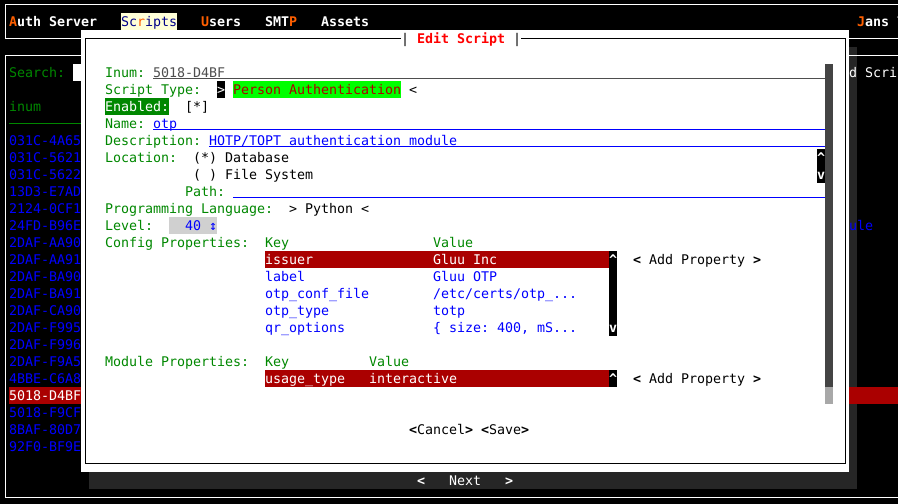
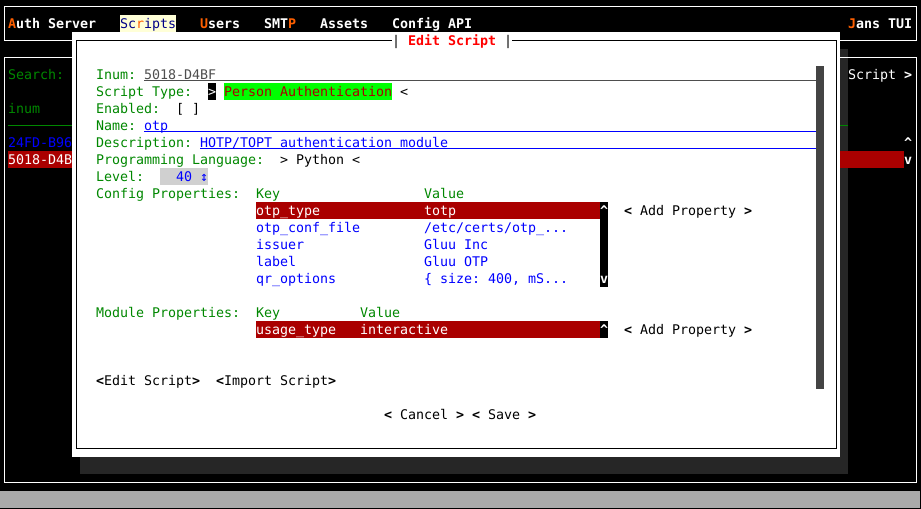
fix(jans-cli-tui): support only db location for custom scripts (#12987)

diff --git a/jans-cli-tui/cli_tui/plugins/060_scripts/edit_script_dialog.py b/jans-cli-tui/cli_tui/plugins/060_scripts/edit_script_dialog.py
@@ -14,7 +14,7 @@ from prompt_toolkit.widgets import Button, Label, TextArea, RadioList,\
     Button, Dialog, Frame
 
 from utils.multi_lang import _
-from utils.static import DialogResult
+from utils.static import DialogResult, cli_style
 from utils.utils import DialogUtils, common_data
 from wui_components.jans_dialog_with_nav import JansDialogWithNav
 from wui_components.jans_cli_dialog import JansGDialog
@@ -81,27 +81,23 @@ class EditScriptDialog(JansGDialog, DialogUtils):
                             prop['value2'] = val_
                         data[prop_container.jans_name].append(prop)
 
-        data['locationType'] = data.get('locationType')
         data['internal'] = self.data.get('internal', False)
         data['modified'] = self.data.get('modified', False)
         data['revision'] = self.data.get('revision', 0) + 1
         data['script'] = self.script
 
-        if data['locationType'] != 'file':
-            data['locationType'] = 'db'
-
         if not 'moduleProperties' in data:
             data['moduleProperties'] = []
 
-        for prop in data['moduleProperties'][:]:
-            if prop['value1'] in ('location_type', 'location_path'):
-                data['moduleProperties'].remove(prop)
+        if 'locationType' not in data:
+            data['locationType'] = 'db'
 
-        location_type = data.pop('locationType')
-        data['moduleProperties'].append({'value1': 'location_type', 'value2': location_type})
-
-        if location_type == 'file':
-            data['moduleProperties'].append({'value1': 'location_path', 'value2': data.pop('locationPath')})
+        for mod_prop in data['moduleProperties']:
+            if mod_prop.get('value1') == 'location_type':
+                mod_prop['value2'] = 'db'
+                break
+        else:
+            data['moduleProperties'].append({'value1': 'location_type', 'value2': 'db'})
 
         if self.data.get('baseDn'):
             data['baseDn'] = self.data['baseDn']
@@ -129,24 +125,6 @@ class EditScriptDialog(JansGDialog, DialogUtils):
             script_types.append((scr_type, scr_name))
         script_types.sort()
 
-
-        file_name = ''
-        if self.data.get('locationType') == 'file':
-            for prop in self.data['moduleProperties'][:]:
-                if prop['value1'] == 'location_path':
-                    location_path = prop.get('value2', '')
-                    file_name = os.path.basename(location_path)
-
-        self.location_widget = self.myparent.getTitledText(
-            _("          File Name"), 
-            name='locationPath', 
-            value=file_name,
-            style='class:script-titledtext', 
-            jans_help="locationPath"
-            )
-
-        self.set_location_widget_state(self.data.get('locationType') == 'file')
-
         config_properties_title = _("Config Properties: ")
         add_property_title = _("Add Property")
         module_properties_title = _("Module Properties: ")
@@ -168,8 +146,8 @@ class EditScriptDialog(JansGDialog, DialogUtils):
                 on_display=self.myparent.data_display_dialog,
                 get_help=(self.get_help,'Properties'),
                 selectes=0,
-                headerColor='class:outh-client-navbar-headcolor',
-                entriesColor='class:outh-client-navbar-entriescolor',
+                headerColor=cli_style.navbar_headcolor,
+                entriesColor=cli_style.navbar_entriescolor,
                 all_data=config_properties_data,
                 underline_headings=False,
                 max_width=44,
@@ -196,8 +174,8 @@ class EditScriptDialog(JansGDialog, DialogUtils):
                 on_display=self.myparent.data_display_dialog,
                 get_help=(self.get_help,'Properties'),
                 selectes=0,
-                headerColor='class:outh-client-navbar-headcolor',
-                entriesColor='class:outh-client-navbar-entriescolor',
+                headerColor=cli_style.navbar_headcolor,
+                entriesColor=cli_style.navbar_entriescolor,
                 all_data=module_properties_data,
                 underline_headings=False,
                 max_width=44,
@@ -214,7 +192,7 @@ class EditScriptDialog(JansGDialog, DialogUtils):
         import_script_button.window.jans_help="Enter to import script for local file"
 
         self.edit_dialog_content = [
-                    self.myparent.getTitledText(_("Inum"), name='inum', value=self.data.get('inum',''), style='class:script-titledtext', jans_help=self.myparent.get_help_from_schema(schema, 'inum'), read_only=True),
+                    self.myparent.getTitledText(_("Inum"), name='inum', value=self.data.get('inum',''), style=cli_style.titled_text, jans_help=self.myparent.get_help_from_schema(schema, 'inum'), read_only=True),
                     self.myparent.getTitledWidget(
                                 _("Script Type"),
                                 name='scriptType',
@@ -223,24 +201,11 @@ class EditScriptDialog(JansGDialog, DialogUtils):
                                     value=self.data.get('scriptType', '')
                                     ),
                                 jans_help=self.myparent.get_help_from_schema(schema, 'scriptType'),
-                                style='class:outh-client-dropdown'),
+                                style=cli_style.drop_down),
 
-                    self.myparent.getTitledCheckBox(_("Enabled"), name='enabled', checked=self.data.get('enabled'), style='class:script-checkbox', jans_help=self.myparent.get_help_from_schema(schema, 'enabled')),
-                    self.myparent.getTitledText(_("Name"), name='name', value=self.data.get('name',''), style='class:script-titledtext', jans_help=self.myparent.get_help_from_schema(schema, 'name')),
-                    self.myparent.getTitledText(_("Description"), name='description', value=self.data.get('description',''), style='class:script-titledtext', jans_help=self.myparent.get_help_from_schema(schema, 'description')),
-
-
-                    self.myparent.getTitledRadioButton(
-                            _("Location"),
-                            name='locationType',
-                            values=[('db', _("Database")), ('file', _("File System"))],
-                            current_value= 'file' if self.data.get('locationType') == 'file' else 'db',
-                            jans_help=_("Where to save script"),
-                            style='class:outh-client-radiobutton',
-                            on_selection_changed=self.script_location_changed,
-                            ),
-
-                     self.location_widget,
+                    self.myparent.getTitledCheckBox(_("Enabled"), name='enabled', checked=self.data.get('enabled'), style=cli_style.check_box, jans_help=self.myparent.get_help_from_schema(schema, 'enabled')),
+                    self.myparent.getTitledText(_("Name"), name='name', value=self.data.get('name',''), style=cli_style.titled_text, jans_help=self.myparent.get_help_from_schema(schema, 'name')),
+                    self.myparent.getTitledText(_("Description"), name='description', value=self.data.get('description',''), style=cli_style.titled_text, jans_help=self.myparent.get_help_from_schema(schema, 'description')),
 
                     self.myparent.getTitledWidget(
                                 _("Programming Language"),
@@ -251,7 +216,7 @@ class EditScriptDialog(JansGDialog, DialogUtils):
                                     on_value_changed=self.script_lang_changed,
                                     ),
                                 jans_help=self.myparent.get_help_from_schema(schema, 'programmingLanguage'),
-                                style='class:outh-client-dropdown'),
+                                style=cli_style.drop_down),
 
                     self.myparent.getTitledWidget(
                                 _("Level"),
@@ -260,10 +225,10 @@ class EditScriptDialog(JansGDialog, DialogUtils):
                                     value=self.data.get('level', 0)
                                     ),
                                 jans_help=self.myparent.get_help_from_schema(schema, 'level'),
-                                style='class:outh-client-dropdown'),
+                                style=cli_style.drop_down),
 
                     VSplit([
-                            Label(text=config_properties_title, style='class:script-label', width=len(config_properties_title)+1), 
+                            Label(text=config_properties_title, style=cli_style.label, width=len(config_properties_title)+1), 
                             self.config_properties_container,
                             Window(width=2),
                             HSplit([
@@ -275,7 +240,7 @@ class EditScriptDialog(JansGDialog, DialogUtils):
                             ),
 
                     VSplit([
-                            Label(text=module_properties_title, style='class:script-label', width=len(module_properties_title)+1), 
+                            Label(text=module_properties_title, style=cli_style.label, width=len(module_properties_title)+1), 
                             self.module_properties_container,
                             Window(width=2),
                             HSplit([
@@ -320,20 +285,6 @@ class EditScriptDialog(JansGDialog, DialogUtils):
         """
         self.cur_lang = value
 
-    def set_location_widget_state(
-        self, 
-        state: bool,
-        ) -> None:
-        """This method check the state of the location to save script
-
-        Args:
-            state (bool): state is changed or not
-        """
-        self.location_widget.me.read_only = not state
-        self.location_widget.me.focusable = state
-        if not state:
-            self.location_widget.me.text = ''
-
     def script_location_changed(
         self, 
         redio_button: RadioList,
@@ -356,8 +307,8 @@ class EditScriptDialog(JansGDialog, DialogUtils):
             title = _("Enter Configuration Properties")
 
         prop_data = kwargs.get('passed', ('',''))
-        key_widget = self.myparent.getTitledText(_("Key"), name='property_key', value=prop_data[0], style='class:script-titledtext', jans_help=_("Script propery Key"))
-        val_widget = self.myparent.getTitledText(_("Value"), name='property_val', value=prop_data[1], style='class:script-titledtext', jans_help=_("Script property Value"))
+        key_widget = self.myparent.getTitledText(_("Key"), name='property_key', value=prop_data[0], style=cli_style.titled_text, jans_help=_("Script propery Key"))
+        val_widget = self.myparent.getTitledText(_("Value"), name='property_val', value=prop_data[1], style=cli_style.titled_text, jans_help=_("Script property Value"))
 
         def add_property(dialog: Dialog) -> None:
             key_ = key_widget.me.text
